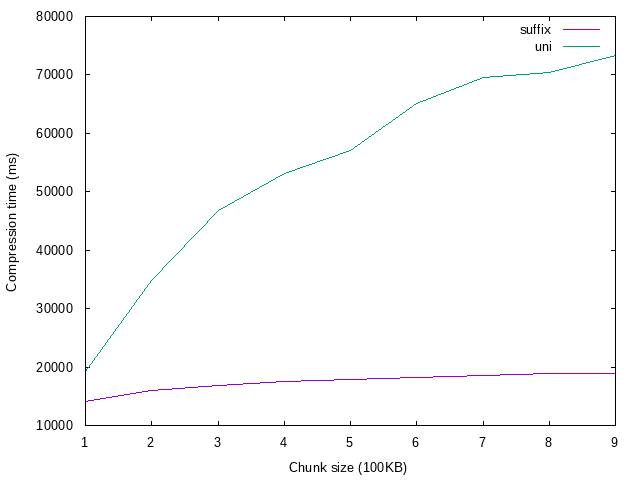
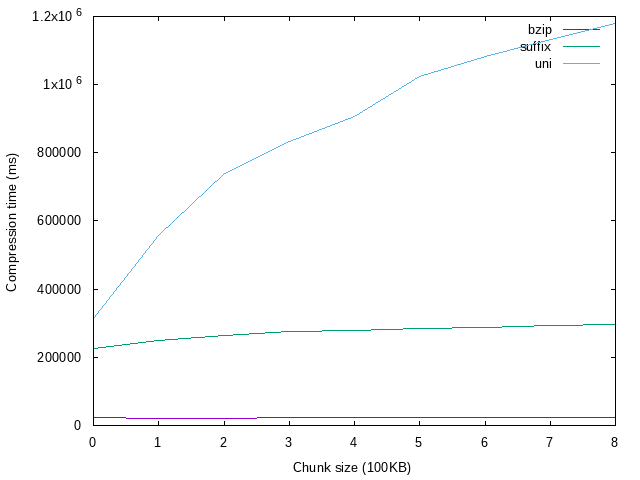
up

diff --git a/data_compression/bwt/runtests.rb b/data_compression/bwt/runtests.rb
@@ -30,6 +30,7 @@ TEST_CASES = {
       { name: "uni", size: 1024 },
       { name: "suffix", size: 256 },
       { name: "suffix", size: 1024 },
+      { name: "bzip", size: 100*1024 },
     ]
   },
   bin: {
@@ -171,6 +172,15 @@ TEST_CASES = {
       'rfc14.txt',
     ],
     plans: [
+      { name: "bzip", size: 100*1024 },
+      { name: "bzip", size: 200*1024 },
+      { name: "bzip", size: 300*1024 },
+      { name: "bzip", size: 400*1024 },
+      { name: "bzip", size: 500*1024 },
+      { name: "bzip", size: 600*1024 },
+      { name: "bzip", size: 700*1024 },
+      { name: "bzip", size: 800*1024 },
+      { name: "bzip", size: 900*1024 },
       { name: "suffix", size: 100*1024 },
       { name: "suffix", size: 200*1024 },
       { name: "suffix", size: 300*1024 },
@@ -240,6 +250,9 @@ def run_test_cases(testcase_name)
         when "suffix"
           compress_suffix(path, test[:size])
           decompress1(path, test[:size])
+        when "bzip"
+          compress_bzip(path, test[:size])
+          decompress_bzip(path, test[:size])
         else
           puts "Zły typ testu."
           exit(1)
@@ -342,8 +355,44 @@ def compress_suffix(path, chunk_size = nil)
   print efficiency.ljust(COLUMN_SIZE[:header2_eff])
 end
 
+def get_level(chunk_size)
+  case chunk_size
+    when 100 * 1024 then "-1"
+    when 200 * 1024 then "-2"
+    when 300 * 1024 then "-3"
+    when 400 * 1024 then "-4"
+    when 500 * 1024 then "-5"
+    when 600 * 1024 then "-6"
+    when 700 * 1024 then "-7"
+    when 800 * 1024 then "-8"
+    when 900 * 1024 then "-9"
+    else raise "Wrong chunk size"
+  end
+end
+
+def compress_bzip(path, chunk_size = nil)
+  level = get_level(chunk_size)
+  timing = execute("bzip2 -ckz #{level} #{path}.input > #{path}.compressed")
+  @timing_sum += timing
+
+  efficiency = calculate_efficiency(path)
+
+  print calculate_time(timing).ljust(COLUMN_SIZE[:header2_comp])
+  print efficiency.ljust(COLUMN_SIZE[:header2_eff])
+end
+
 def decompress0(path, chunk_size = nil)
   timing = execute("./decompress0 #{path}.compressed #{path}.decompressed #{chunk_size.to_s}")
+  @timing_sum += timing
+
+  execute("diff #{path}.input #{path}.decompressed")
+
+  print calculate_time(timing).ljust(COLUMN_SIZE[:header2_decomp])
+end
+
+def decompress_bzip(path, chunk_size = nil)
+  level = get_level(chunk_size)
+  timing = execute("bunzip2 -ckd #{level} #{path}.compressed > #{path}.decompressed")
   @timing_sum += timing
 
   execute("diff #{path}.input #{path}.decompressed")

diff --git a/data_compression/bwt/comp_time_gen.rb b/data_compression/bwt/comp_time_gen.rb
@@ -1,7 +1,7 @@
 
-TeeFile = "plots/lexicomp.raw"
-ImportantLines = [7] #(7..7).to_a
-ImportantColumns = (1..24).map {|i| i*3 - 1 }
+TeeFile = "plots/rfc.raw"
+ImportantLines = (7..20).to_a
+ImportantColumns = (1..27).map {|i| i*3 - 1 }
 
 filelines = File.readlines(TeeFile)
 important_lines = ImportantLines.map do |i|
@@ -21,15 +21,19 @@ important_lines.each_with_index do |line, j|
   end
 end
 
-def average(xs)
-  sum = xs.map(&:to_f).reduce(&:+)
-  (sum / xs.count).round(2)
+def sum(xs)
+  xs.map(&:to_f).reduce(&:+)
 end
+
+def average(xs)
+  (sum(xs) / xs.count).round(2)
+end
+
 
 data.each do |k,v|
   # vals = v.map {|x| x[0..-2]}
   vals = v
-  puts "#{k} #{vals.join(" ")} #{average(vals)}"
+  puts "#{k} #{vals.join(" ")} #{sum(vals)}"
 end
 
 puts

diff --git a/data_compression/bwt/eff_chart_gen.rb b/data_compression/bwt/eff_chart_gen.rb
@@ -1,7 +1,7 @@
 
-TeeFile = "plots/lexicomp.raw"
-ImportantLines = (7..7).to_a
-ImportantColumns = (1..24).map {|i| i*3 }
+TeeFile = "plots/rfc.raw"
+ImportantLines = (7..20).to_a
+ImportantColumns = (1..27).map {|i| i*3 }
 
 filelines = File.readlines(TeeFile)
 important_lines = ImportantLines.map do |i|
